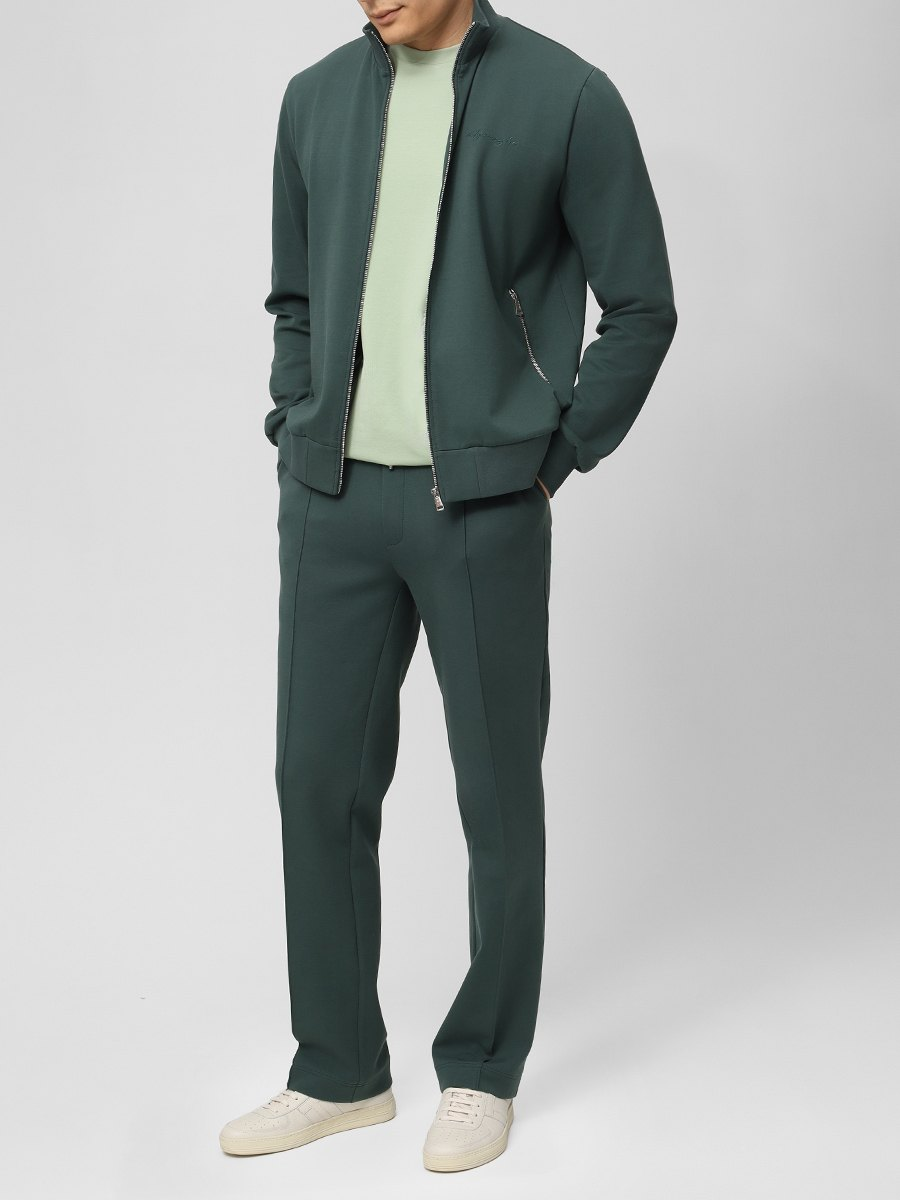
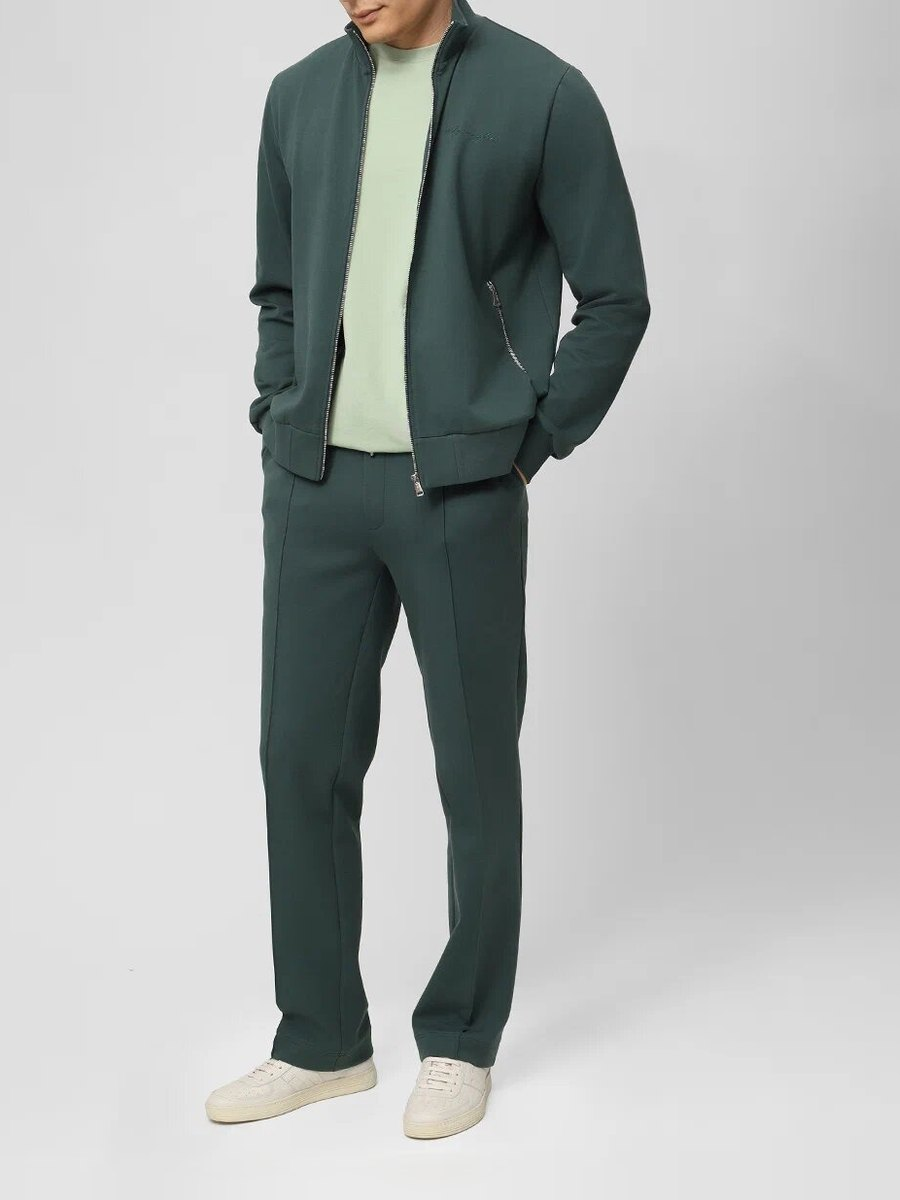
Forest: кадр — вещь на белом по центру с полями, полный рост по центру с воздухом под обувью
Claude-Session: https://claude.ai/code/session_012aPbf8WthF4MzaEU1Jxjty

Changed region(s): [[0.2178, 0.0, 0.7778, 0.9867]]

diff --git a/docs/forest-foto.py b/docs/forest-foto.py
@@ -1,21 +1,144 @@
-# Отбор и пережатие фото Forest: 900×1200 (3:4), JPEG, без EXIF
-import os,sys
-from PIL import Image, ImageOps
-SRC=sys.argv[1]; OUT=sys.argv[2]
-D={
- '22270709':('22270709 дел футболка',['3_MAN_03','3_MOD_05.JPG','3_MOD_02.JPG','3_MOD_01.JPG','3_MOD_03.JPG','3_MOD_04.JPG']),
- '22270801':('22270801 олимп зел выш',['4_MAN_03.jpg','6_MOD_06.JPG','6_MOD_03.JPG','6_MOD_02.JPG','6_MOD_04.JPG','6_MOD_05.JPG']),
- '22270802':('22270802 брюки',['1_MAN_02.jpg','1_MOD_02.JPG','5_MOD_02.JPG','5_MOD_01.JPG','5_MOD_03.JPG','1_MOD_01.JPG']),
- '22270803':('22270811 кост Дикаприо зел выш',['3_MAN_03.jpg','5_MOD_08.JPG','5_MOD_05.JPG','5_MOD_04.JPG','5_MOD_06.JPG','5_MOD_07.JPG']),
- '22270811':('22270811 костюм Дикаприо зел выш',['5_MAN_03.jpg','5_MOD_08.JPG','5_MOD_09.JPG','5_MOD_05.JPG','5_MOD_04.JPG','5_MOD_02.JPG','5_MOD_01.JPG','5_MOD_06.JPG','5_MOD_07.JPG','5_MOD_03.JPG']),
- '22270812':('22270812 Кост стойка зел выш',['6_MAN_03.jpg','6_MOD_06.JPG','6_MOD_07.JPG','6_MOD_03.JPG','6_MOD_02.JPG','5_MOD_02.JPG','5_MOD_01.JPG','6_MOD_04.JPG','6_MOD_05.JPG','5_MOD_03.JPG']),
- '22270821':('22270821 тройка дикапр беж футб беж выш',['1_MAN_03','1_MOD_09.JPG','1_MOD_13.JPG','1_MOD_10.JPG','1_MOD_05.JPG','1_MOD_04.JPG','1_MOD_01.JPG','1_MOD_03.JPG','1_MOD_06.JPG','1_MOD_08.JPG','1_MOD_07.JPG','1_MOD_12.JPG']),
- '22270822':('22270822 комплект стойка беж фут беж выш',['2_MAN_02','2_MOD_09.JPG','2_MOD_08.JPG','2_MOD_03.JPG','2_MOD_02.JPG','1_MOD_01.JPG','1_MOD_03.JPG','2_MOD_04.JPG','2_MOD_05.JPG','2_MOD_10.JPG','1_MOD_02.JPG','2_MOD_06.JPG']),
+# -*- coding: utf-8 -*-
+"""
+Фото зелёной коллекции Forest для карточек: отбор + кадрирование 900×1200 (3:4).
+
+ЗАПУСК:
+    python3 docs/forest-foto.py <папка с исходниками Яндекс.Диска> images/forest
+
+Исходники — папки товаров с Диска «04 - зеленый интерлок и 2 фут» (НЕ «900:1200»:
+там модели обрезаны по нос и кадры растянуты). Большие *_MAN_01/_02 — снимки бирок,
+их не берём; вещь на белом — *_MAN_02/_03 маленького размера.
+
+КАДР (29.10.2026, Григорий: «вещь по центру, сверху и снизу чуть воздуха»):
+  · вещь на белом — по центру, поля сверху и снизу поровну (AIR_PACK);
+  · модель в полный рост — по центру по ширине, под обувью воздух (AIR_FLOOR);
+    сверху модель обрезана ещё на съёмке (по лицо), там воздуха не добавить;
+  · остальные кадры на модели и детали НЕ трогаем (Григорий: «остальные не надо») —
+    остаются файлы из первой версии (папка «900:1200»).
+  Фон, где кадра не хватает, достраивается цветом края фото.
+"""
+import os
+import sys
+
+import numpy as np
+from PIL import Image, ImageFilter, ImageOps
+
+W, H = 900, 1200
+AIR_PACK = 0.07     # поле сверху и снизу у вещи на белом — доля высоты
+SIDE_PACK = 0.06    # минимальное поле по бокам у вещи на белом
+AIR_FLOOR = 0.05    # воздух под обувью у кадра в полный рост
+
+# Порядок фото в карточке: 1 — на белом, 2 — в полный рост, дальше остальное.
+# FULL — какие кадры в полный рост (по ним ставим воздух под обувью).
+D = {
+ '22270709': ('22270709', ['3_MAN_03', '3_MOD_05', '3_MOD_02', '3_MOD_01', '3_MOD_03', '3_MOD_04'],
+              {'3_MOD_05'}),
+ '22270801': ('22270801', ['4_MAN_03', '6_MOD_06', '6_MOD_03', '6_MOD_02', '6_MOD_04', '6_MOD_05'],
+              {'6_MOD_06'}),
+ '22270802': ('22270802', ['1_MAN_02', '1_MOD_02', '5_MOD_02', '5_MOD_01', '5_MOD_03', '1_MOD_01'],
+              {'1_MOD_02'}),
+ '22270803': ('22270803', ['3_MAN_03', '5_MOD_08', '5_MOD_05', '5_MOD_04', '5_MOD_06', '5_MOD_07'],
+              {'5_MOD_08'}),
+ '22270811': ('22270811', ['5_MAN_03', '5_MOD_08', '5_MOD_09', '5_MOD_05', '5_MOD_04', '5_MOD_02',
+                           '5_MOD_01', '5_MOD_06', '5_MOD_07', '5_MOD_03'],
+              {'5_MOD_08', '5_MOD_09'}),
+ '22270812': ('22270812', ['6_MAN_03', '6_MOD_06', '6_MOD_07', '6_MOD_03', '6_MOD_02', '5_MOD_02',
+                           '5_MOD_01', '6_MOD_04', '6_MOD_05', '5_MOD_03'],
+              {'6_MOD_06', '6_MOD_07'}),
+ '22270821': ('22270821', ['1_MAN_03', '1_MOD_09', '1_MOD_13', '1_MOD_10', '1_MOD_05', '1_MOD_04',
+                           '1_MOD_01', '1_MOD_03', '1_MOD_06', '1_MOD_08', '1_MOD_07', '1_MOD_12'],
+              {'1_MOD_09', '1_MOD_13'}),
+ '22270822': ('22270822', ['2_MAN_02', '2_MOD_09', '2_MOD_08', '2_MOD_03', '2_MOD_02', '1_MOD_01',
+                           '1_MOD_03', '2_MOD_04', '2_MOD_05', '2_MOD_10', '1_MOD_02', '2_MOD_06'],
+              {'2_MOD_09', '2_MOD_08'}),
 }
-for art,(folder,files) in D.items():
-    os.makedirs(os.path.join(OUT,art),exist_ok=True)
-    for i,f in enumerate(files,1):
-        im=ImageOps.exif_transpose(Image.open(os.path.join(SRC,folder,[x for x in sorted(os.listdir(os.path.join(SRC,folder))) if x.startswith(f)][0]))).convert('RGB')
-        im=ImageOps.fit(im,(900,1200),Image.LANCZOS) if im.size!=(900,1200) else im
-        im.save(os.path.join(OUT,art,'%02d.jpg'%i),'JPEG',quality=86,optimize=True,progressive=True)
-    print(art,len(files))
+
+
+def find(src, art, prefix):
+    folder = [d for d in os.listdir(src) if d.startswith(art)][0]
+    names = sorted(f for f in os.listdir(os.path.join(src, folder)) if f.startswith(prefix))
+    # среди одноимённых берём меньший файл: большие *_MAN_* — бирки
+    names.sort(key=lambda f: os.path.getsize(os.path.join(src, folder, f)))
+    return os.path.join(src, folder, names[0])
+
+
+def bbox(a, white):
+    """Рамка вещи/модели: всё, что заметно отличается от фона."""
+    g = a.astype(np.int16)
+    if white:
+        m = (g.min(axis=2) < 238)
+    else:
+        # фон — светло-серый с переходом, справа темнее: по нему центр «уезжает».
+        # Ищем саму вещь — тёмную (зелёная ткань), фон и кожа светлее.
+        m = (g.mean(axis=2) < 140)
+    rows = np.where(m.mean(axis=1) > 0.004)[0]
+    cols = np.where(m.mean(axis=0) > 0.004)[0]
+    return cols[0], rows[0], cols[-1] + 1, rows[-1] + 1
+
+
+def extend(im, left, top, right, bottom):
+    """Расширить кадр: края фона тянем наружу и размываем шов."""
+    a = np.asarray(im)
+    p = np.pad(a, ((top, bottom), (left, right), (0, 0)), mode='edge')
+    big = Image.fromarray(p)
+    if left or top or right or bottom:
+        blur = big.filter(ImageFilter.GaussianBlur(25))
+        mask = Image.new('L', big.size, 255)
+        mask.paste(0, (left, top, left + im.width, top + im.height))
+        mask = mask.filter(ImageFilter.GaussianBlur(8))
+        big = Image.composite(blur, big, mask)
+    return big
+
+
+def place(im, cx, top_px, scale, white):
+    """Масштабировать и вырезать 900×1200 так, чтобы cx был по центру, а top_px — сверху."""
+    im = im.resize((round(im.width * scale), round(im.height * scale)), Image.LANCZOS)
+    cx, top_px = cx * scale, top_px * scale
+    x0, y0 = round(cx - W / 2), round(top_px)
+    l, t = max(0, -x0), max(0, -y0)
+    r, b = max(0, x0 + W - im.width), max(0, y0 + H - im.height)
+    if white:
+        c = Image.new('RGB', (im.width + l + r, im.height + t + b), (255, 255, 255))
+        c.paste(im, (l, t))
+    else:
+        c = extend(im, l, t, r, b)
+    return c.crop((x0 + l, y0 + t, x0 + l + W, y0 + t + H))
+
+
+def frame(path, kind):
+    im = ImageOps.exif_transpose(Image.open(path)).convert('RGB')
+    a = np.asarray(im)
+    if kind == 'pack':
+        x0, y0, x1, y1 = bbox(a, True)
+        s = min(H * (1 - 2 * AIR_PACK) / (y1 - y0), W * (1 - 2 * SIDE_PACK) / (x1 - x0))
+        # вещь по центру: поля сверху и снизу поровну
+        top = (y0 + y1) / 2 - H / 2 / s
+        return place(im, (x0 + x1) / 2, top, s, True)
+    x0, y0, x1, y1 = bbox(a, False)
+    cx = (x0 + x1) / 2
+    if kind == 'full':
+        # верх кадра — как снято, обувь — с воздухом снизу
+        s = H * (1 - AIR_FLOOR) / y1
+        return place(im, cx, 0, s, False)
+    # остальное: высота кадра целиком, по центру по ширине
+    s = H / im.height
+    if im.width * s < W:
+        s = W / im.width
+    return place(im, cx if im.width * s > W else im.width / 2, (im.height - H / s) / 2, s, False)
+
+
+def main():
+    src, out = sys.argv[1], sys.argv[2]
+    for art, (prefix, files, full) in D.items():
+        os.makedirs(os.path.join(out, art), exist_ok=True)
+        for i, f in enumerate(files, 1):
+            kind = 'pack' if '_MAN_' in f else ('full' if f in full else 'mod')
+            if kind == 'mod':
+                continue
+            frame(find(src, prefix, f), kind).save(
+                os.path.join(out, art, '%02d.jpg' % i), 'JPEG', quality=86, optimize=True, progressive=True)
+        print(art, len(files))
+
+
+if __name__ == '__main__':
+    main()
